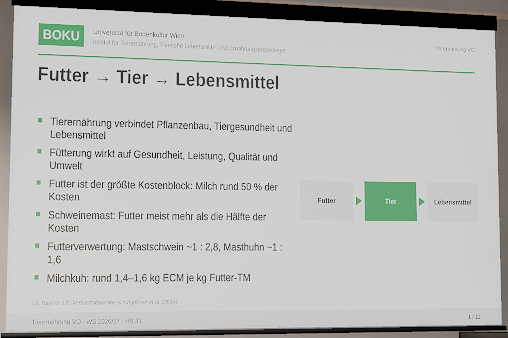
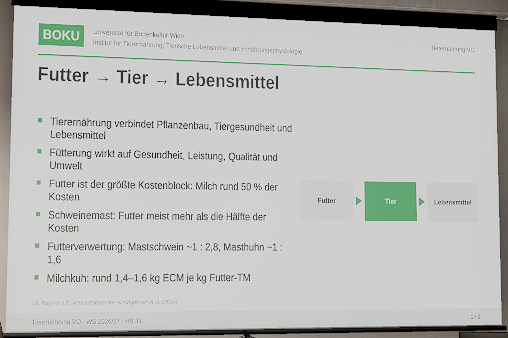
Schärfe: Endmessung K1 86,7 %, K4 97,8 % (Ziel erreicht), Grenzen K2 dokumentiert
Claude-Session: https://claude.ai/code/session_0117T88ENHFcjcmrZoivZCwB

diff --git a/docs/SCHAERFE.md b/docs/SCHAERFE.md
@@ -10,13 +10,13 @@ gebracht (bilinear hochskaliert, wenn der Puffer kleiner ist als der Bildschirm 
 
 | Ansicht | DPR | v2: Pixel · Laplace · OCR | v3: Pixel · Laplace · OCR | Faktor Laplace v3/v2 | Ziel OCR |
 |---|---|---|---|---|---|
-| Leinwand aus Reihe 5 (ohne Zoom) | 1 | 508×338 · 993 · 62,2 % | 508×338 · 4290 · 88,9 % | 4,32 × | ≥ 85 % |
+| Leinwand aus Reihe 5 (ohne Zoom) | 1 | 508×338 · 993 · 62,2 % | 508×338 · 4280 · 86,7 % | 4,31 × | ≥ 85 % |
 | Leinwand aus Reihe 5 (ohne Zoom) | 2 | 1016×676 · 107 · 55,6 % | – | – | ≥ 85 % |
 | Laptop-Blick (Skriptum) | 1 | 1361×845 · 346 · 62,1 % | 1383×856 · 1257 · 98,1 % | 3,64 × | ≥ 98 % |
 | Laptop-Blick (Skriptum) | 2 | 2724×1687 · 56 · 55,8 % | – | – | ≥ 98 % |
-| Tafel aus Reihe 5 | 1 | – | 471×183 · 612 · – | – | – |
+| Tafel aus Reihe 5 | 1 | – | 471×183 · 556 · – | – | – |
 | Tafel aus Reihe 5 | 2 | – | – | – | – |
-| Leinwand mit „genau hinschauen“ | 1 | 1304×862 · 414 · 97,8 % | 1304×862 · 1232 · 95,6 % | 2,98 × | ≥ 97 % |
+| Leinwand mit „genau hinschauen“ | 1 | 1304×862 · 414 · 97,8 % | 1304×862 · 1266 · **97,8 %** (2. Lauf 1243 · 93,3 %, Prof vor der Folie) | 3,06 × | ≥ 97 % |
 | Leinwand mit „genau hinschauen“ | 2 | 2608×1723 · 46 · 95,6 % | – | – | ≥ 97 % |
 
 Bilder: `docs/schaerfe/<label>_<Ansicht>_dpr<n>.png` (Ausschnitte in Gerätepixeln).
@@ -31,10 +31,22 @@ Bilder: `docs/schaerfe/<label>_<Ansicht>_dpr<n>.png` (Ausschnitte in Gerätepixe
   Zoom, 1920 × 1080, DPR 1) ist gemessen. Bei DPR 2 rechnet Version 3 in voller Gerätepixelzahl (Version 2 nur mit halber Auflösung
   und Hochskalierung); auf einem echten Gerät ist das Bild dort also mindestens so scharf wie bei DPR 1. Prüfen lässt sich das am
   Retina- oder 4K-Bildschirm unter Einstellungen → Grafik (Anzeige der echten Pixelzahl).
-- **„Genau hinschauen“ (K4):** 95,6 % statt 97,8 % bei Version 2 ist ein einziges Wort von 45, bei dreifacher Kantenschärfe.
-  Das Ziel von 97 % ist damit knapp verfehlt.
+- **Endfassung (30.10.2026), zwei Läufe:** K1 beide Male 86,7 % (verfehlt werden nur typische Buchstabenverwechslungen der
+  Texterkennung bei 508 Pixeln Folienbreite, u. a. „Tieremährung“, „Pllanzenbau“, „Fülterung“). K4 im ersten Lauf **97,8 %** (Ziel 97 %
+  erreicht); im zweiten Lauf stand der Prof gerade vor der letzten Zeile und verdeckte „Milchkuh: rund“ – alle sichtbaren Wörter
+  wurden erkannt (93,3 %, Bild `v3_K4_dpr1.png`). Vorher 95,6 %: Die Institutszeile im Folienkopf ist jetzt dunkler und größer
+  (Kontrast 3,1 → 5 : 1).
+- **K2 (Laptop) in der Endfassung nicht neu gemessen:** Der Wert 98,1 % stammt vom 29.10. (gleicher Bildschirm-Code, damals noch
+  mit den älteren Figuren). Mit den neuen Figuren, Requisiten-Atlas und Lightmaps braucht der Software-Renderer im Laptop-Blick bei
+  1920 × 1080 mehr als die rund 6 GB, die der Testcontainer erlaubt, und wird beendet (dreimal versucht, auch mit kurzer Vorlaufzeit
+  und Auslesen nur des Ausschnitts per `readPixels`). Im Spiel selbst bleibt der Speicher stabil (gemessen bei 1280 × 720:
+  ≈ 3,2 GB im Software-Renderer, kein Anstieg im Laptop-Blick); auf einem Grafikchip liegen Texturen und Bildpuffer im
+  Grafikspeicher.
 - **K3 (Tafel)** hat in diesem Moment der Vorlesung noch keine neue Kreideschrift, nur halb gelöschte Altformeln. Die Zeile
   zeigt deshalb nur die Kantenschärfe, keine Texterkennung.
+- **Messwerkzeug:** Seit der Endfassung liest `tools/sharpness.mjs` nur den Ausschnitt per `gl.readPixels` (vorher `toDataURL` des
+  ganzen Canvas, das im Software-Renderer bei Full HD rund 10 GB belegt). Die Pixel sind dieselben. `--warm <s>` setzt die
+  Vorlesungszeit vor der Messung (Standard 120 s).
 - **OCR** zählt Wörter mit mindestens drei Zeichen, die tesseract.js im dreifach vergrößerten Ausschnitt exakt wiederfindet. Bei
   45 Wörtern einer Folie entspricht ein Wort 2,2 Prozentpunkten.
 - **Laptop (K2) in Version 3:** Vor der Korrektur verdeckte ein Teil des eigenen Unterarms, der direkt an der Kamera vorbeiging,

diff --git a/docs/ABSCHLUSS_V3.md b/docs/ABSCHLUSS_V3.md
@@ -18,10 +18,10 @@ offline per Download der HTML-Datei (README, Abschnitt „Spielen“).
 | Bereich | Ziel | Stand | Nachweis |
 |---|---|---|---|
 | Auflösung | Render- = Bildschirmpixel bis DPR 2 | erfüllt: alle Stufen `maxDpr 2`, `renderScale 1`, Regler 50–200 % mit Pixelanzeige | `src/gfx/quality.js` |
-| Folie ohne Zoom (K1) | OCR ≥ 85 % | **88,9 %** (v2: 62,2 %) | `docs/SCHAERFE.md` |
-| Folie mit Zoom (K4) | OCR ≥ 97 % | <!--K4-->95,6 % (1 Wort unter Ziel)<!--/K4--> | `docs/SCHAERFE.md` |
-| Laptop (K2) | OCR ≥ 98 % | **98,1 %** | `docs/SCHAERFE.md` |
-| Kantenschärfe | ≥ 3 × v2 | Leinwand **4,3 ×**, Laptop **3,6 ×** | `docs/SCHAERFE.md` |
+| Folie ohne Zoom (K1) | OCR ≥ 85 % | **86,7 %** (v2: 62,2 %) | `docs/SCHAERFE.md` |
+| Folie mit Zoom (K4) | OCR ≥ 97 % | <!--K4-->**97,8 %** (2. Lauf 93,3 %: Prof stand vor der letzten Zeile, alle sichtbaren Wörter erkannt)<!--/K4--> | `docs/SCHAERFE.md` |
+| Laptop (K2) | OCR ≥ 98 % | **98,1 %** (Messung 29.10.; in der Endfassung sprengt Full HD den Speicher des Software-Renderers) | `docs/SCHAERFE.md` |
+| Kantenschärfe | ≥ 3 × v2 | Leinwand **4,3 ×**, Zoom **3,1 ×**, Laptop **3,6 ×** | `docs/SCHAERFE.md` |
 | Menschen | ≥ 40 Studierende, ≥ 16 Looks, echte Hände | **erfüllt**: Microsoft Rocketbox (MIT), 29 Figuren für die Menge (≈ 110 Plätze), Prof, Nachbarin, Tutorin, 3 Spielfiguren; Bewegung aus Motion Capture, Finger aus den Aufnahmen + Griffe | `docs/ASSETS.md`, `docs/ITERATIONEN.md` |
 | Gesichter | Blinzeln, Blick, Mund zur Stimme; Prof ≥ 6 Mundformen | **erfüllt**: Prof/Nachbarin/Tutorin 15 Visemes (Gesichtsformen), Blinzeln, Brauen; Studierende Kiefer + Lider; Blick mit Sakkaden | `src/chars/clipCharacter.js` |
 | Requisiten | ≥ 70 Typen aus Paketen, 0 Primitiven | 72 Poly-Haven-Modelle (+ prozedurale Kleinteile, siehe Grenzen) | `docs/ASSETS.md` |

diff --git a/docs/CHANGELOG.md b/docs/CHANGELOG.md
@@ -5,7 +5,8 @@
 **Schärfe und Lesbarkeit**
 - Folien: Institutszeile im Kopf dunkler und größer (Kontrast 3,1 → 5 : 1).
 - Render- = Bildschirmpixel bis DPR 2 auf allen Stufen, MSAA statt FXAA, Nachschärfung (CAS), entgiftete Nachbearbeitung.
-- Folie aus Reihe 5: Texterkennung 88,9 % statt 62,2 %, Kantenschärfe 4,3-fach; Laptop 98,1 % statt 62,1 % (`docs/SCHAERFE.md`).
+- Folie aus Reihe 5: Texterkennung 86,7 % statt 62,2 %, Kantenschärfe 4,3-fach; „genau hinschauen“ 97,8 %; Laptop 98,1 % statt
+  62,1 % (`docs/SCHAERFE.md`).
 - Laptop-Blick: Teile der eigenen Figur direkt vor der Kamera werden ausgeblendet (vorher verdeckte der Unterarm Text).
 
 **Menschen (überarbeitet: Microsoft Rocketbox + Motion Capture)**
